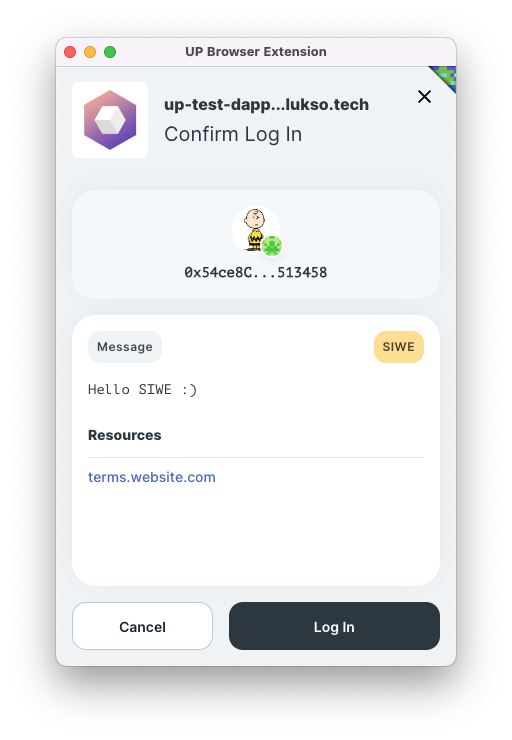
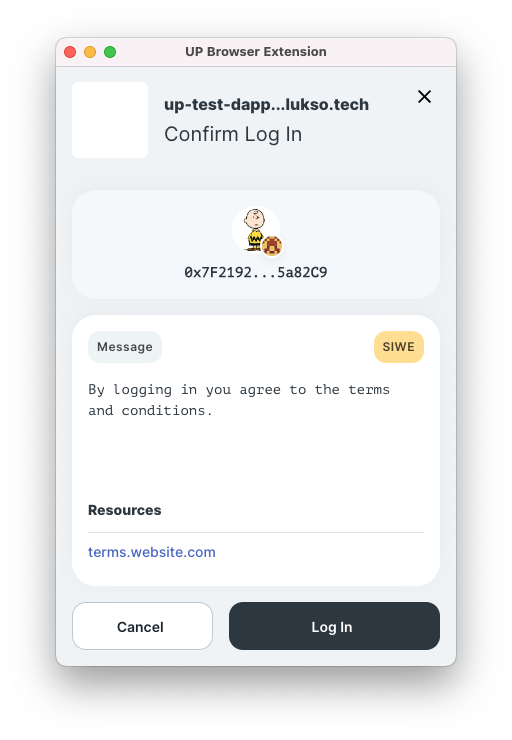
Fixes Sign tutorials

diff --git a/docs/guides/browser-extension/sign-in-with-ethereum.md b/docs/guides/browser-extension/sign-in-with-ethereum.md
@@ -33,10 +33,11 @@ const etherProvider = new ethers.providers.Web3Provider(window.ethereum);
 const accountsRequest = await etherProvider.send('eth_requestAccounts', []);
 const signer = etherProvider.getSigner();
 const upAddress = await signer.getAddress();
+// 0x3E39275Ed3B370E074534edeE13a166512AD32aB
 ```
 
   </TabItem>
-  <TabItem value="web3" label="Web3.js">
+  <TabItem value="web3" label="web3.js">
 
 ```js
 import Web3 from 'web3';
@@ -46,6 +47,7 @@ const web3 = new Web3(window.ethereum);
 const accountsRequest = await web3.eth.requestAccounts();
 const accounts = await web3.eth.getAccounts();
 const upAddress = accounts[0];
+// 0x3E39275Ed3B370E074534edeE13a166512AD32aB
 ```
 
   </TabItem>
@@ -85,7 +87,7 @@ Resources:
 
 </details>
 
-In JavaScript, you can use the [`siwe`](https://www.npmjs.com/package/siwe) package.
+In JavaScript, you can use the [`siwe`](https://www.npmjs.com/package/siwe) library.
 
 <Tabs>
   <TabItem value="siwe" label="With siwe library">
@@ -98,10 +100,11 @@ import { SiweMessage } from 'siwe';
 const message = new SiweMessage({
   domain: window.location.host,
   address: upAddress,
-  statement: 'Hello SIWE :)',
+  statement: 'By logging in you agree to the terms and conditions.',
   uri: window.location.origin,
   version: '1',
   chainId: '2828', // For LUKSO L16
+  resources: ['https://terms.website.com'],
 });
 
 const siweMessage = message.prepareMessage();
@@ -126,7 +129,7 @@ const siweMessage = `${domain} wants you to sign in with your Ethereum account:
 
 ${upAddress}
 
-Hello SIWE :)
+By logging in you agree to the terms and conditions.
 
 URI: ${origin}
 Version: 1
@@ -134,7 +137,7 @@ Chain ID: ${LUKSO_L16_CHAIN_ID}
 Nonce: ${nonce}
 Issued At: ${issuedAt}
 Resources:
-- http://some-resource1.com`;
+- https://terms.website.com`;
 ```
 <!-- prettier-ignore-end -->
 
@@ -143,21 +146,33 @@ Resources:
 
 ## 3. Sign the message
 
+Once you have access to the Universal Profile address, you can request a signature. The browser extension will sign the message with the controller key used by the extension (a smart contract can't sign).
+
 <Tabs groupId="provider">
   <TabItem value="ethers" label="Ethers.js">
 
-```js
-const signature = await signer.signMessage(siweMessage);
+:::caution
 
+When calling Ethers.js [`signer.signMessage( message )`](https://docs.ethers.io/v5/api/signer/#Signer-signMessage), it uses `personal_sign` RPC call under the hood. However, our extension only supports the latest version of [`eth_sign`](https://ethereum.org/en/developers/docs/apis/json-rpc/#eth_sign). Therefore, you need to use `provider.send("eth_sign", [upAddress, message])` instead.
+
+You can get more information [here](https://github.com/MetaMask/metamask-extension/issues/15857) and [here](https://github.com/ethers-io/ethers.js/issues/1544).
+
+:::
+
+<!-- prettier-ignore-start -->
+
+```js
+const signature = await etherProvider.send('eth_sign', [upAddress, siweMessage]);
 // 0x38c53...
 ```
 
+<!-- prettier-ignore-end -->
+
   </TabItem>
-   <TabItem value="web3" label="Web3.js">
+   <TabItem value="web3" label="web3.js">
 
 ```js
 const signature = await web3.eth.sign(siweMessage, upAddress);
-
 // 0x38c53...
 ```
 
@@ -175,69 +190,59 @@ To do so, you can use the [`isValidSignature(...)`](../../standards/smart-contra
 <Tabs groupId="provider">
   <TabItem value="ethers" label="Ethers.js">
 
+<!-- prettier-ignore-start -->
+
 ```js
 import UniversalProfileContract from '@lukso/lsp-smart-contracts/artifacts/UniversalProfile.json';
 
 // ...
 
-const myUniversalProfileContract = new ethers.Contract(
-  upAddress,
-  UniversalProfileContract.abi,
-  signer,
-);
+const myUniversalProfileContract = new ethers.Contract(upAddress, UniversalProfileContract.abi, signer);
 
-const hashedMessage = ethers.utils.keccak256(
-  ethers.utils.toUtf8Bytes(siweMessage),
-);
+const hashedMessage = ethers.utils.hashMessage(siweMessage);
 
-const isValidSignature = await myUniversalProfileContract.isValidSignature(
-  hashedMessage,
-  signature,
-);
+const isValidSignature = await myUniversalProfileContract.isValidSignature(hashedMessage, signature);
 
 const MAGIC_VALUE = '0x1626ba7e'; // https://eips.ethereum.org/EIPS/eip-1271
 
 if (isValidSignature === MAGIC_VALUE) {
   console.log('🎉 Sign-In successful!');
 } else {
-  console.log(
-    '😡 The EOA which signed the message has no SIGN permission over this UP.',
-  );
+  // The EOA which signed the message has no SIGN permission over this UP.
+  console.log('😭 Log In failed');
 }
 ```
 
+<!-- prettier-ignore-end -->
+
   </TabItem>
-  <TabItem value="web3" label="Web3.js">
+  <TabItem value="web3" label="web3.js">
+
+<!-- prettier-ignore-start -->
 
 ```js
 import UniversalProfileContract from '@lukso/lsp-smart-contracts/artifacts/UniversalProfile.json';
 
 // ...
 
-const myUniversalProfileContract = new web3.eth.Contract(
-  UniversalProfileContract.abi,
-  upAddress,
-);
+const myUniversalProfileContract = new web3.eth.Contract(UniversalProfileContract.abi, upAddress);
 
-const hashedMessage = web3.utils.keccak256(siweMessage);
+const hashedMessage = web3.eth.accounts.hashMessage(siweMessage);
 
 const MAGIC_VALUE = '0x1626ba7e'; // https://eips.ethereum.org/EIPS/eip-1271
 
 // if the signature is valid it should return the magic value 0x1626ba7e
-const isValidSignature =
-  await myUniversalProfileContract.methods.isValidSignature(
-    hashedMessage,
-    signature,
-  );
+const isValidSignature = await myUniversalProfileContract.methods.isValidSignature(hashedMessage, signature).call();
 
 if (isValidSignature === MAGIC_VALUE) {
-  console.log('🎉 Sign-In successful!');
+  console.log('🎉 Log In successful!');
 } else {
-  console.log(
-    '😡 The EOA which signed the message has no SIGN permission over this UP.',
-  );
+  // The EOA which signed the message has no SIGN permission over this UP.
+  console.log('😭 Log In failed');
 }
 ```
+
+<!-- prettier-ignore-end -->
 
   </TabItem>
 </Tabs>

diff --git a/docs/guides/browser-extension/sign-arbitrary-messages.md b/docs/guides/browser-extension/sign-arbitrary-messages.md
@@ -14,7 +14,7 @@ If you want to authenticate a user, please refer to the [Sign-In with Ethereum](
 
 :::
 
-The browser extension has a custom Sign screen. The article
+This article explains how to request a signature from the [LUKSO browser extension](../browser-extension/install-browser-extension.md).
 
 <div style={{textAlign: 'center'}}>
 <img
@@ -24,6 +24,8 @@ The browser extension has a custom Sign screen. The article
 </div>
 
 ## 1. Initialize a blockchain provider
+
+The browser extension injects a global API into the website that is visited. This API is available under `window.ethereum`. You can use this object to initialise your [web3.js](https://web3js.readthedocs.io/en/v1.8.0/) or [Ethers.js](https://docs.ethers.io/v5/) library.
 
 <Tabs groupId="provider">
   <TabItem value="ethers" label="Ethers.js">
@@ -35,7 +37,7 @@ const etherProvider = new ethers.providers.Web3Provider(window.ethereum);
 ```
 
   </TabItem>
-  <TabItem value="web3" label="Web3.js">
+  <TabItem value="web3" label="web3.js">
 
 ```js
 import Web3 from 'web3';
@@ -48,7 +50,7 @@ const web3 = new Web3(window.ethereum);
 
 ## 2. Get the Universal Profile address
 
-A call to `requestAccounts` will open an extension popup to authorize an account.
+A call to `requestAccounts` will open the extension popup and prompt the user to select her or his Universal Profile to interact with your Dapp. The LUKSO browser extension will send back the Universal Profile address back to your Dapp (which is the address of the [`LSP0 - ERC725 Account`](../../standards/universal-profile/lsp0-erc725account.md) smart contract).
 
 <Tabs groupId="provider">
   <TabItem value="ethers" label="Ethers.js">
@@ -57,16 +59,17 @@ A call to `requestAccounts` will open an extension popup to authorize an account
 const accountsRequest = await etherProvider.send('eth_requestAccounts', []);
 const signer = etherProvider.getSigner();
 const upAddress = await signer.getAddress();
+// 0x3E39275Ed3B370E074534edeE13a166512AD32aB
 ```
 
   </TabItem>
-  <TabItem value="web3" label="Web3.js">
+  <TabItem value="web3" label="web3.js">
 
 ```js
 const accountsRequest = await web3.eth.requestAccounts();
 const accounts = await web3.eth.getAccounts();
-
 const upAddress = accounts[0];
+// 0x3E39275Ed3B370E074534edeE13a166512AD32aB
 ```
 
   </TabItem>
@@ -90,21 +93,36 @@ const upAddress = accounts[0];
 
 ## 3. Sign the message
 
+Once you have access to the Universal Profile address, you can request a signature. The browser extension will sign the message with the controller key used by the extension (a smart contract can't sign).
+
 <Tabs groupId="provider">
   <TabItem value="ethers" label="Ethers.js">
 
+:::caution
+
+When calling Ethers.js [`signer.signMessage( message )`](https://docs.ethers.io/v5/api/signer/#Signer-signMessage), it uses `personal_sign` RPC call under the hood. However, our extension only supports the latest version of [`eth_sign`](https://ethereum.org/en/developers/docs/apis/json-rpc/#eth_sign). Therefore, you need to use `provider.send("eth_sign", [upAddress, message])` instead.
+
+You can get more information [here](https://github.com/MetaMask/metamask-extension/issues/15857) and [here](https://github.com/ethers-io/ethers.js/issues/1544).
+
+:::
+
+<!-- prettier-ignore-start -->
+
 ```js
 const message = 'Please sign this message 😊';
-const signature = await signer.signMessage(message);
+const signature = await etherProvider.send('eth_sign', [upAddress, message]);
+// 0x38c53...
 ```
 
+<!-- prettier-ignore-end -->
+
   </TabItem>
-  <TabItem value="web3" label="Web3.js">
+  <TabItem value="web3" label="web3.js">
 
 ```js
 const message = 'Please sign this message 😊';
-const address = web3.currentProvider.selectedAddress;
 const signature = await web3.eth.sign(message, upAddress);
+// 0x38c53...
 ```
 
   </TabItem>
@@ -112,6 +130,6 @@ const signature = await web3.eth.sign(message, upAddress);
 
 ## 4. Verify the signature
 
-Your Dapp has now received a message signed by the controller address of the Universal Profile. To finalise the login, you need to verify if the message was signed by an address which has the `SIGN` permission for this UP.
+Your Dapp has now received a message signed by the controller address of the Universal Profile. To finalise the login, you need to verify if the message was signed by an address which has the `SIGN` permission for this Universal Profile.
 
-The verification process is the same as for [Sign-In with Ethereum](./sign-in-with-ethereum.md#4-verify-the-signature).
+The verification process is the same as for [Sign-In with Ethereum](./sign-in-with-ethereum.md#4-verify-the-signature), you can check how it is done there.
